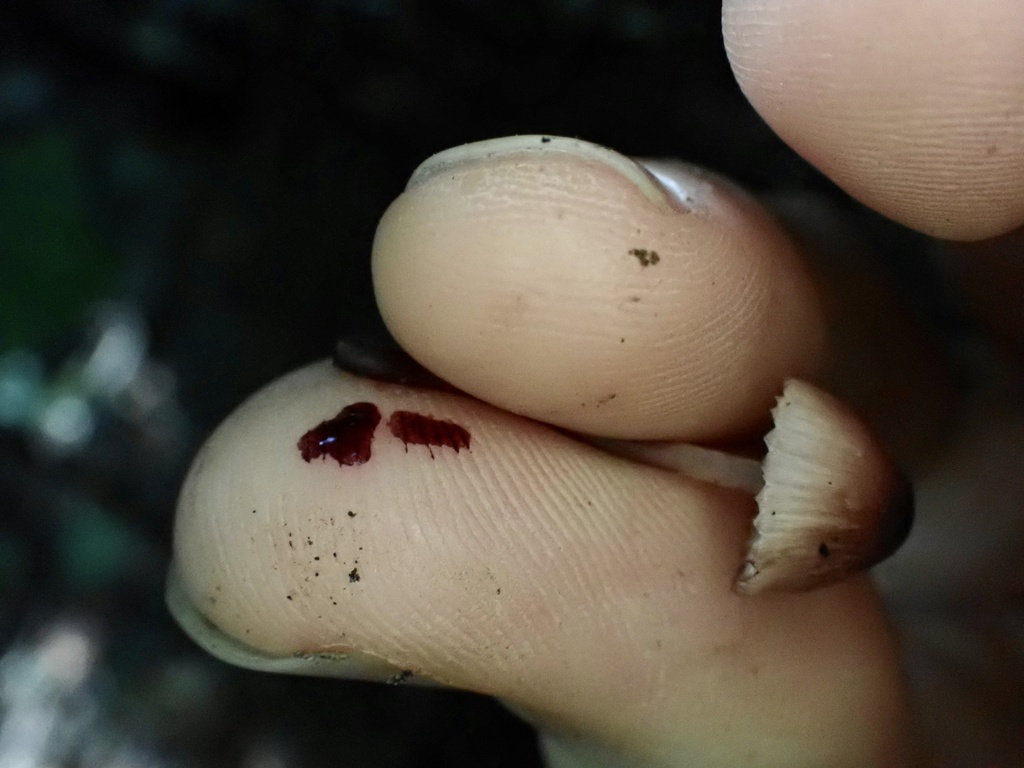
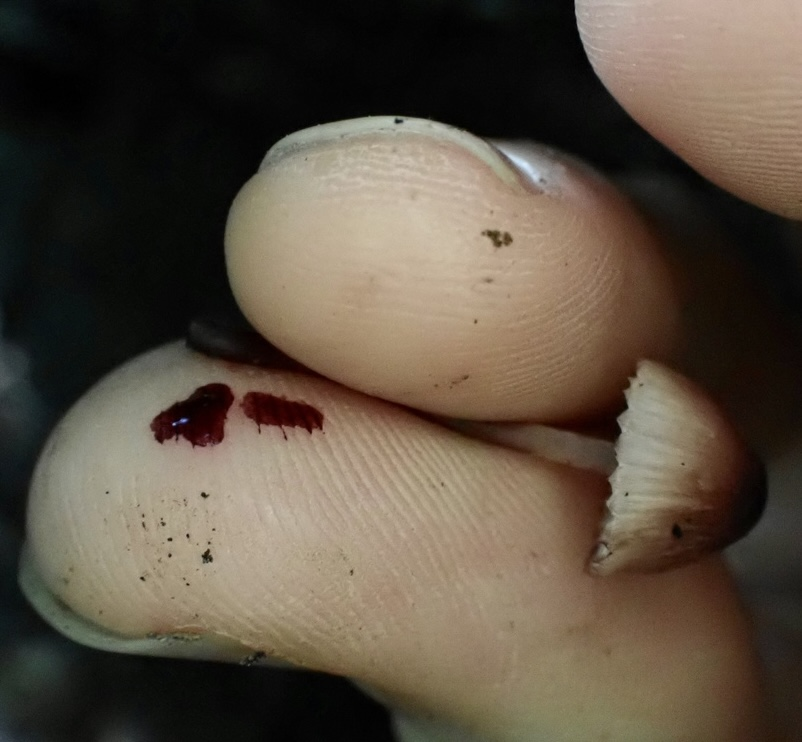
Mycena sp. 'haematopus-IN01' addition

diff --git a/src/cms/content/observations/mycena-sp-'haematopus-in01'-174954664.md b/src/cms/content/observations/mycena-sp-'haematopus-in01'-174954664.md
@@ -1,0 +1,27 @@
+---
+inat_id: '174954664'
+templateKey: observation
+dna_barcode_its: GTCGTAACAAGGTTTCCGTAGGTGAACCTGCGGAAGGATCATTATTGAATACGATTGGGACTGATGCTGGCTCTTCACTGAGCATGTGCTCGTCTCGTCTATTTATCTTCTCTTGTGCACATCTTGTGGTCTTGAATTGAAAACCTTTTCGCATTCGTGCGGTTTGGGGGATTGTTAAACCTTCTCCTGCTTTCGTCGCGGTTTGGGAGATTGTTAACCCTTTCTTCTGTTTCCTTCGCGCGGTTTGGGAGATTGTTAACCCTTCTCCTGCTTGATTCAAGGCCATGTTTTCATATACACTATATAAAGTTACAGAATGTCTTTTAACGATTGCGCTTGTCGTAGTCATTAAACCTATACAACTTTCAGCAACGGATCTCTTGGCTCTCCTATCGATGAAGAACGCAGCGAAATGCGATAAGTAATGTGAATTGCAGAATTCAGTGAATCATCGAATCTTTGAACGCACCTTGCGCCCTTTGGTATTCCGAAGGGCATGCCTGTTTGAGTGTCATTAAATTATCAACCTTGCTCGCTTTTACTAGTTTGAGTTAGGCTTGGATGTGAGGGCTTTGCTGGCTTCCTTCAGTGGACGGTCTGCTCCCTTTAAATACATTAGTGGGATCTCTTGTGGACCGTCACTTGGTGTGATAATTATCTATGCCTTGCGACTTTGAAGCAAACTTATGGGAATCCGCTTATAACCGTCTTCGGACAATTAATGACTATTTGACCTCAAATCAGGTAGGACTACCCGCTGAACTT
+mycomap_blast_link: https://mycomap.com/genetics/blast-search/g04-cm24-0232-inat174954664-1-r126406/
+name:  
+scientific_name: Mycena sp. 'haematopus-IN01'
+location: Indian Cave State Park
+date_pretty: July 24th, 2023
+uri: https://www.inaturalist.org/observations/174954664
+user_id: thefungiproject
+photos:
+  - /img/mycena-sp-'haematopus-in01'-174954664-1.jpeg
+  - /img/mycena-sp-'haematopus-in01'-174954664-2.jpeg
+  - /img/mycena-sp-'haematopus-in01'-174954664-3.jpeg
+  - /img/mycena-sp-'haematopus-in01'-174954664-4.jpeg
+  - /img/mycena-sp-'haematopus-in01'-174954664-5.jpeg
+  - /img/mycena-sp-'haematopus-in01'-174954664-6.jpeg
+  - /img/mycena-sp-'haematopus-in01'-174954664-7.jpeg
+  - /img/mycena-sp-'haematopus-in01'-174954664-8.jpeg
+---
+
+#232
+
+- Growing alone on fallen hardwood log on a north-facing woodland slope in a transitional zone between riparian and oak/hickory woodland.
+- Cap conical with darker red center, striated and scalloped margin.
+- Stipe reddish, darker towards base, only exuding dark liquid when squeezed.

diff --git a/src/cms/content/species/mycena-sp-'haematopus-in01'.md b/src/cms/content/species/mycena-sp-'haematopus-in01'.md
@@ -4,10 +4,12 @@ name: Bleeding Fairy Helmet
 scientific_name: Mycena sp. 'haematopus-IN01'
 observations:
   - '183033429'
+  - '174954664'
 locations:
   - Indian Cave State Park
 tags:
   - summer
+  - fall
   - agaric
   - substrate-wood
 taxonomy:
@@ -33,14 +35,7 @@ external_links:
   - tag: Google Scholar
     link: https://scholar.google.com/scholar?&q=Mycena%20sp.%20'haematopus-IN01'
 photos:
-  - /img/mycena-sp-'haematopus-in01'-183033429-1.jpeg
   - /img/mycena-sp-'haematopus-in01'-183033429-2.jpeg
-  - /img/mycena-sp-'haematopus-in01'-183033429-3.jpeg
-  - /img/mycena-sp-'haematopus-in01'-183033429-4.jpeg
-  - /img/mycena-sp-'haematopus-in01'-183033429-5.jpeg
-  - /img/mycena-sp-'haematopus-in01'-183033429-6.jpeg
-  - /img/mycena-sp-'haematopus-in01'-183033429-7.jpeg
-  - /img/mycena-sp-'haematopus-in01'-183033429-8.jpeg
   - /img/mycena-sp-'haematopus-in01'-183033429-9.jpeg
-  - /img/mycena-sp-'haematopus-in01'-183033429-10.jpeg
+  - /img/mycena-sp-'haematopus-in01'-174954664-4.jpeg
 ---
